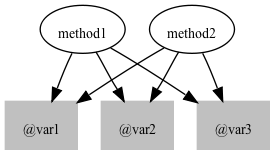
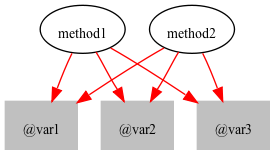
Visually distinguish instance variable reads from instance variable writes.

diff --git a/lib/rubyviz/cli.rb b/lib/rubyviz/cli.rb
@@ -64,8 +64,10 @@ module Rubyviz
     
     def visit_statement(n)
       if n.class == Array
-        if [:ivar, :iasgn].include?(n[0])
-          visit_var(n[1])
+        if [:ivar].include?(n[0])
+          visit_var_read(n[1])
+        elsif [:iasgn].include?(n[0])
+          visit_var_write(n[1])
         elsif [:defn].include?(n[0])
           visit_defn(n)
         elsif [:vcall, :fcall].include?(n[0])
@@ -112,20 +114,26 @@ module Rubyviz
       @m = @g.add_node( "\"#{name}\"")
     end
     
-    def visit_var(v)
+    def visit_var_read(v)
       name = v.to_s
       @v = @g.add_node( "\"#{name}\"", :shape => 'box', :style => 'filled', :color => 'grey')
       @g.add_edge(@m, @v)
     end
     
+    def visit_var_write(v)
+      name = v.to_s
+      @v = @g.add_node( "\"#{name}\"", :shape => 'box', :style => 'filled', :color => 'grey')
+      @g.add_edge(@m, @v, :color => 'red')
+    end
+
     def graph_method_call(sym)
       return if @m == nil
       return if [:puts, :system, :raise, :require, :exit].include?(sym)
       name = sym.to_s
       if @attr_readers.include?(name)
-        visit_var("@#{name}")
+        visit_var_read("@#{name}")
       elsif @attr_writers.include?(name.sub(/=$/, ''))
-        visit_var("@#{name.sub(/=$/, '')}")
+        visit_var_write("@#{name.sub(/=$/, '')}")
       else
         call = @g.add_node( "\"#{name}\"" )
         @g.add_edge(@m, call)
